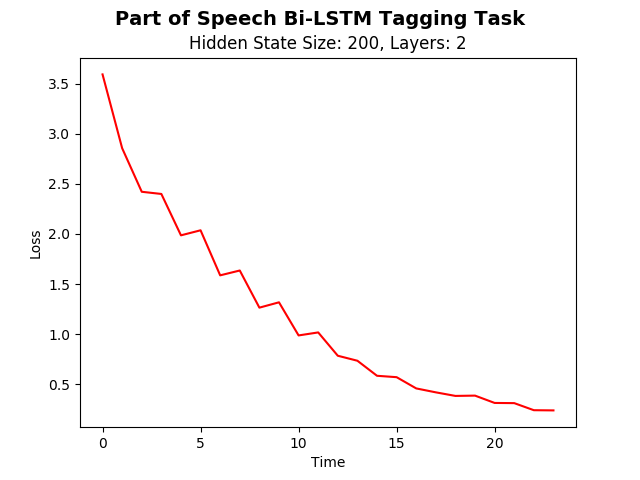
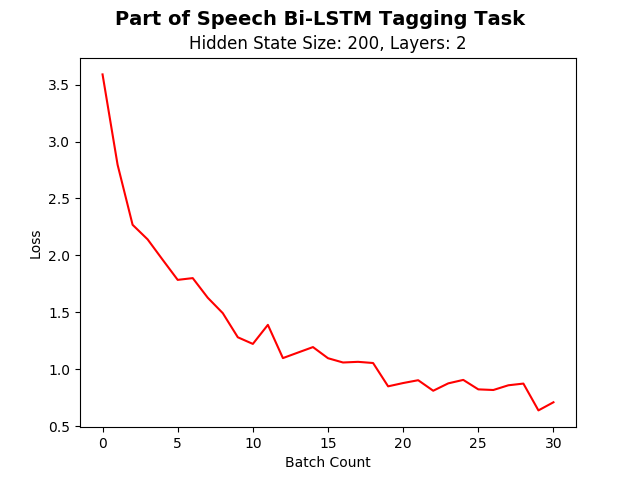
Chunking

diff --git a/chunking.py b/chunking.py
@@ -1,0 +1,90 @@
+import numpy as np
+import torch
+from torch import nn
+from torch import optim
+from torch.autograd import Variable
+from torch.nn import functional as F
+import matplotlib.pyplot as plt
+from utils import batch_generator
+from utils import nb_classes
+from utils import nb_postags
+from utils import max_sentence_size
+from utils import avg_cross_entropy_loss
+from lang_model import CharacterLanguageModel
+from lang_model import embedding_size
+from pos_tag import POSTag
+
+class Chunking(nn.Module):
+    def __init__(self, hidden_state_size, nb_rnn_layers, tags_hidden_state_size):
+        super(Chunking, self).__init__()
+        
+        self.input_size = embedding_size \
+                        + nb_postags \
+                        + tags_hidden_state_size * 2
+
+        self.w = nn.Parameter(torch.randn(nb_rnn_layers * 2, 
+                                          max_sentence_size, 
+                                          hidden_state_size))
+        self.h = nn.Parameter(torch.randn(nb_rnn_layers * 2, 
+                                          max_sentence_size,
+                                          hidden_state_size))
+
+        self.bi_lstm = nn.LSTM(self.input_size, 
+                               hidden_state_size,
+                               nb_rnn_layers,
+                               bidirectional=True)
+
+    def forward(self, x, tags, hn_tags):
+        gt = torch.cat([hn_tags, x, tags.view(1, -1, nb_postags)], dim=2)
+        
+        out, hn = self.bi_lstm(gt, (self.h[:,:x.size(1),:], 
+                                    self.w[:,:x.size(1),:]))
+        
+        print(x.size(), out.size())
+        
+        return x, None
+
+hidden_state_size = 100
+nb_rnn_layers = 2
+
+class TestModel(nn.Module):
+    def __init__(self):
+        super(TestModel, self).__init__()
+        
+        self.lang_model = CharacterLanguageModel()
+        self.pos_tag = POSTag(hidden_state_size, nb_rnn_layers)
+        self.chunking = Chunking(hidden_state_size, nb_rnn_layers, hidden_state_size)
+        
+    def forward(self, x):
+        embedded = self.lang_model.forward(x)
+        tags_out = list()
+        chunk_out = list()
+
+        for batch in embedded:
+            sent = np.zeros((1, len(batch), embedding_size), dtype=np.float32)
+
+            for i, word in enumerate(batch):
+                sent[0,i] = word.data.numpy()
+
+            sent = torch.from_numpy(sent)
+            sent = Variable(sent)
+
+            tags, hn_tags = self.pos_tag.forward(sent)            
+            chunked, hn_chunk = self.chunking.forward(sent, tags, hn_tags)
+                        
+            tags_out.append(tags)
+            chunk_out.append(chunked)
+
+        return tags_out, chunk_out
+
+gen = batch_generator(8, 100)
+
+model = TestModel()
+
+text, tags, chunks, sent = next(gen)
+
+out_tags, out_chunks = model.forward(text)
+
+#print(output[0])
+
+

diff --git a/pos_tag.py b/pos_tag.py
@@ -14,7 +14,7 @@ from lang_model import CharacterLanguageModel
 from lang_model import embedding_size
 
 class POSTag(nn.Module):
-    def __init__(self, hidden_state_size = 50, nb_rnn_layers = 1):
+    def __init__(self, hidden_state_size, nb_rnn_layers):
         super(POSTag, self).__init__()
 
         self.w = nn.Parameter(torch.randn(nb_rnn_layers * 2, 
@@ -67,7 +67,7 @@ if __name__ == '__main__':
             
             return out
     
-    nb_batches = 15
+    nb_batches = 100
     batch_size = 8
     epochs = 100
     hidden_state_size = 200
@@ -115,7 +115,7 @@ if __name__ == '__main__':
         ax.set_title('Hidden State Size: {}, Layers: {}'.format(hidden_state_size, 
                                                                 nb_rnn_layers))
 
-        ax.set_xlabel('Time')
+        ax.set_xlabel('Batch Count')
         ax.set_ylabel('Loss')
 
         plt.savefig("./results/" + fname)

diff --git a/utils.py b/utils.py
@@ -36,10 +36,13 @@ def avg_cross_entropy_loss(predicted, targets):
     return loss
 
 chunk_gram = r"""
-NP: {<DT|JJ|NN.*>+}          # Chunk sequences of DT, JJ, NN
-PP: {<IN><NP>}               # Chunk prepositions followed by NP
-VP: {<VB.*><NP|PP|CLAUSE>+$} # Chunk verbs and their arguments
-CLAUSE: {<NP><VP>}           # Chunk NP, VP
+NP: {<DT|JJ|NN.*>+}             # Chunk sequences of DT, JJ, NN
+PP: {<IN><NP>}                  # Chunk prepositions followed by NP
+VP: {<VB.*><NP|PP|CLAUSE>+$}    # Chunk verbs and their arguments
+ACTION: {<PRP><VBP><VBN>}
+CLAUSE: {<NP><VP>}              # Chunk NP, VP
+SENT: {<.*>+}
+      }<.>{
 """
 
 chunk_parser = nltk.RegexpParser(chunk_gram)            
@@ -124,7 +127,7 @@ def tags2sent(tags):
 def sent2chunk(sentence):
     tags = word_tokenize(sentence)
     tags = nltk.pos_tag(tags)
-
+    
     chunked = chunk_parser.parse(tags)
     
     out = list()
